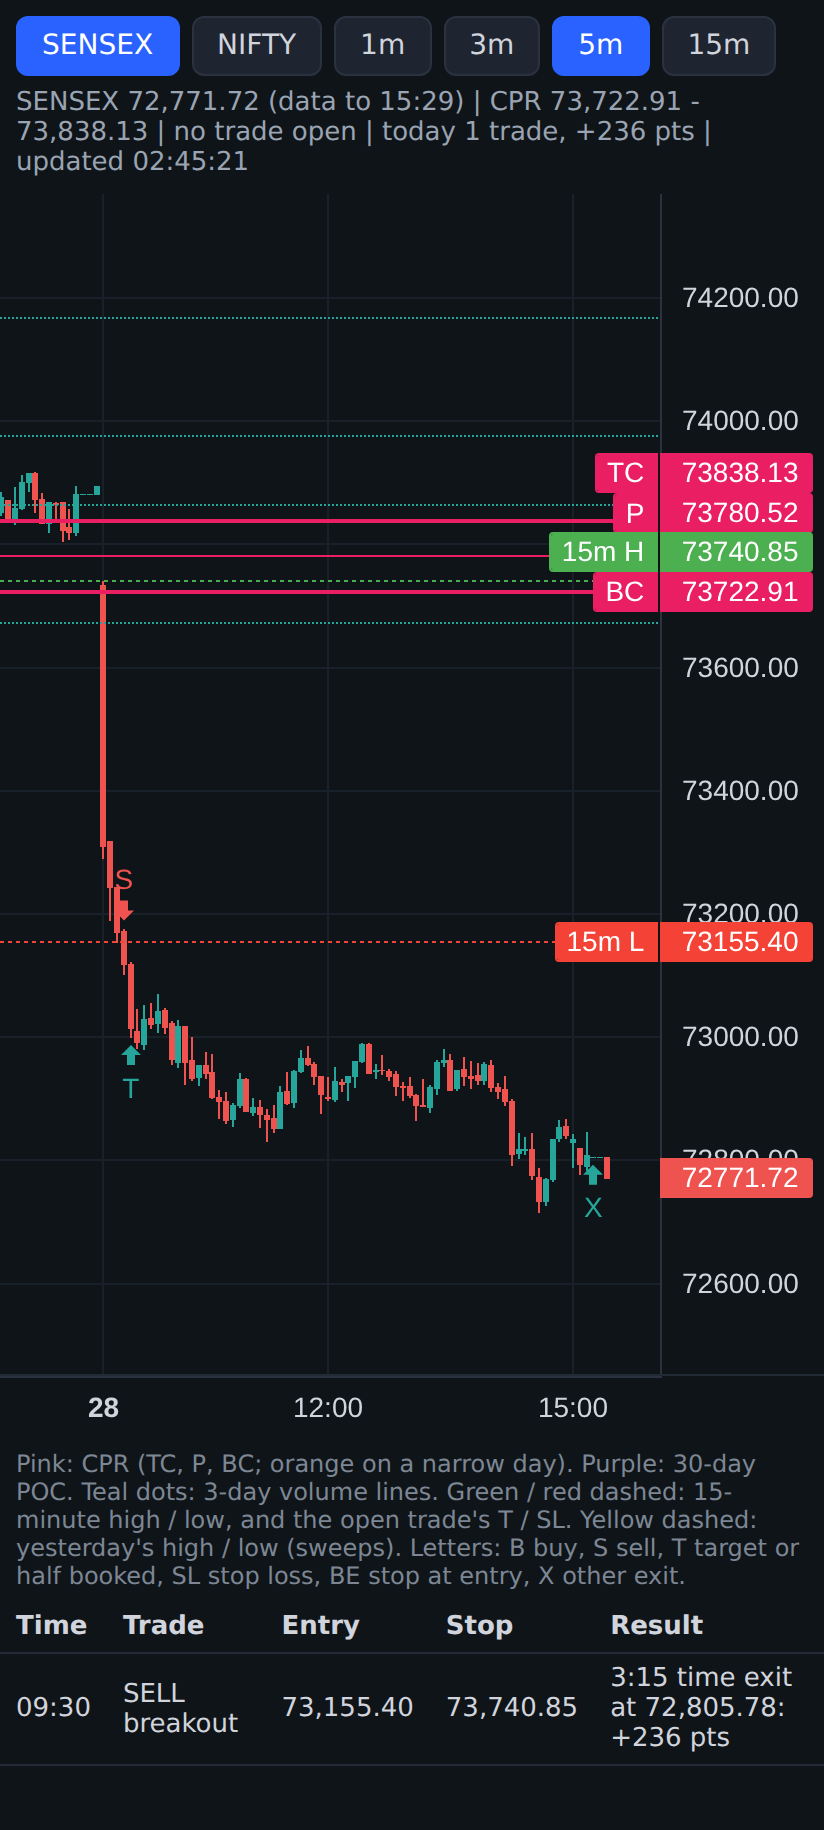
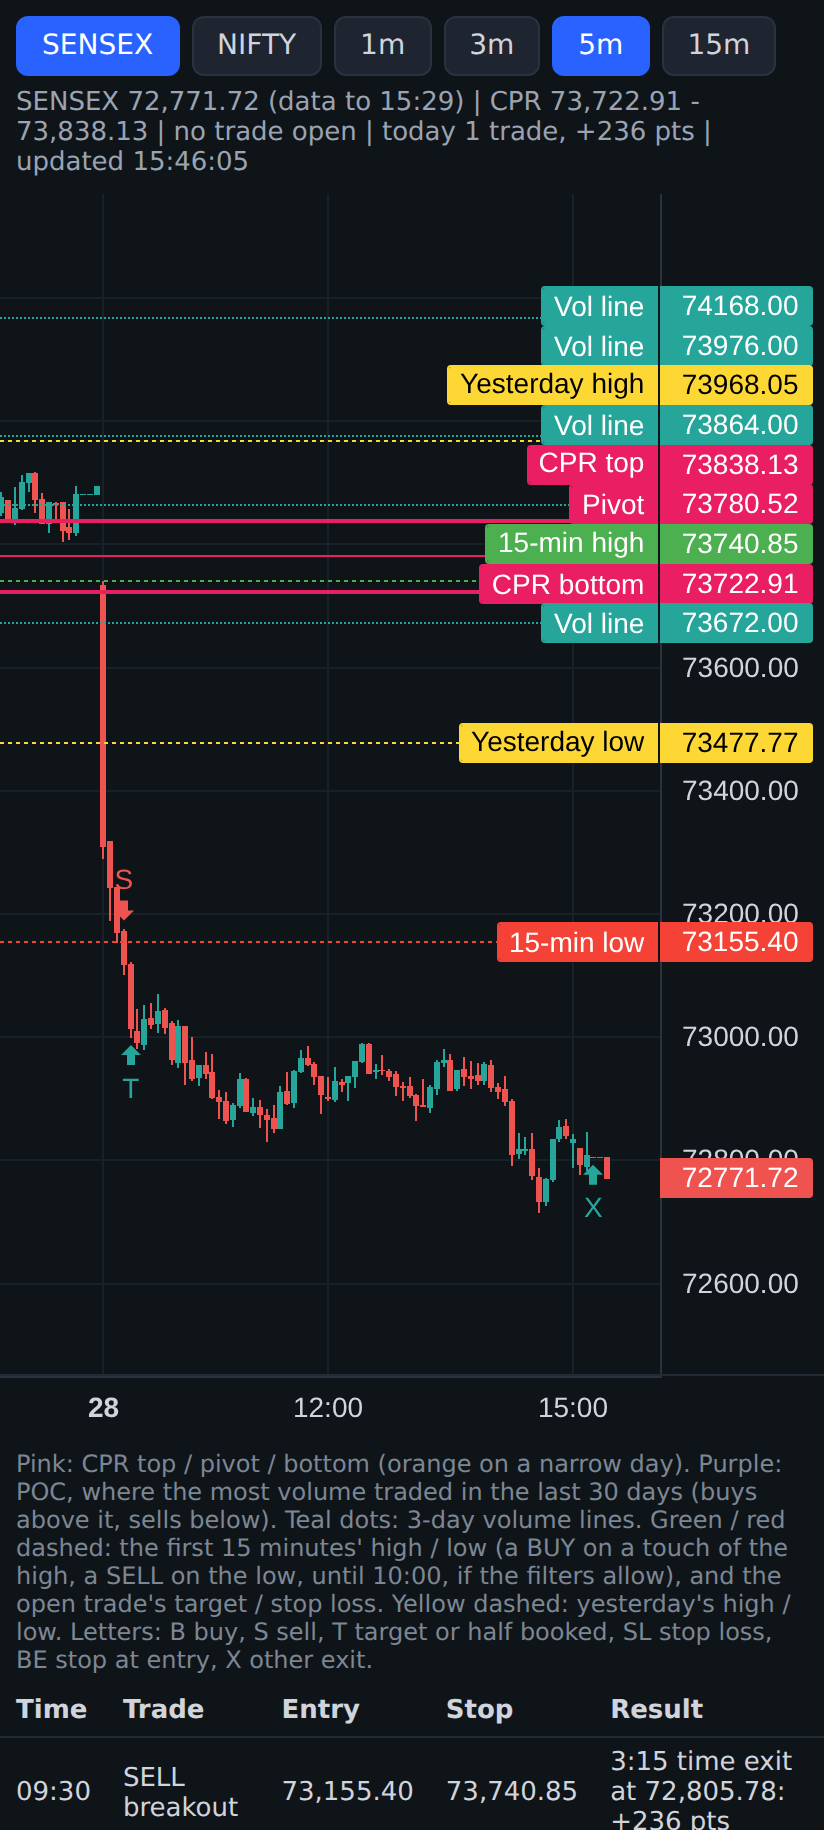
Name every line in words with its price, and draw the next session's levels in advance
TradingView indicator: CPR top / pivot / bottom, POC (most volume, 30 days), 3-day
volume lines, yesterday's high / low (now always shown), stop loss / target, and the
15-minute high / low with today's plan (BUY / SELL on a touch, or none). After the
close: the next session's CPR, yesterday high / low, POC and 3-day volume lines,
named 'Next: ...'. The phone alerts' live chart names its lines the same way.
No trading rule changed.

Claude-Session: https://claude.ai/code/session_01AGVU4tJ1NHm4Zt7sGSBpjS

diff --git a/trading-system/alerts/cprb_alerts.py b/trading-system/alerts/cprb_alerts.py
@@ -971,15 +971,14 @@ def chart_update(n, cx, c_all, ts, got, day):
     """Everything the chart page draws for one index: today's (and yesterday's) 1-minute candles, levels, marks."""
     lv = cx['lv']
     pink = '#ff9800' if cx['narrow'] else '#e91e63'
-    levels = [dict(p=lv['top'], c=pink, t='TC', s=0, w=2), dict(p=lv['p'], c=pink, t='P', s=0, w=1),
-              dict(p=lv['bot'], c=pink, t='BC', s=0, w=2), dict(p=cx['poc'], c='#9c6ade', t='POC', s=0, w=1)]
-    levels += [dict(p=x, c='#26a69a', t='', s=1, w=1) for x in cx['lines']]
-    if SWEEP and cx.get('rules_used') == 'classic':
-        levels += [dict(p=cx['yh'], c='#fdd835', t='yday high', s=2, w=1), dict(p=cx['yl'], c='#fdd835', t='yday low', s=2, w=1)]
+    levels = [dict(p=lv['top'], c=pink, t='CPR top', s=0, w=2), dict(p=lv['p'], c=pink, t='Pivot', s=0, w=1),
+              dict(p=lv['bot'], c=pink, t='CPR bottom', s=0, w=2), dict(p=cx['poc'], c='#9c6ade', t='POC 30 days', s=0, w=1)]
+    levels += [dict(p=x, c='#26a69a', t='Vol line', s=1, w=1) for x in cx['lines']]
+    levels += [dict(p=cx['yh'], c='#fdd835', t='Yesterday high', s=2, w=1), dict(p=cx['yl'], c='#fdd835', t='Yesterday low', s=2, w=1)]
     first = [x for x in c_all if x[0] < RANGE_END]
     if first and got >= RANGE_END - 1:
-        levels += [dict(p=max(x[2] for x in first), c='#4caf50', t='15m H', s=2, w=1),
-                   dict(p=min(x[3] for x in first), c='#f44336', t='15m L', s=2, w=1)]
+        levels += [dict(p=max(x[2] for x in first), c='#4caf50', t='15-min high', s=2, w=1),
+                   dict(p=min(x[3] for x in first), c='#f44336', t='15-min low', s=2, w=1)]
     marks, rows, open_t = [], [], None
     for t in ts:
         if not t['taken']:
@@ -1003,7 +1002,7 @@ def chart_update(n, cx, c_all, ts, got, day):
     if pend and got < 720 and not any(t['src'] == 'PULLBACK' for t in ts):
         levels.append(dict(p=pend['px'], c='#2962ff', t='LIMIT ' + ('BUY' if pend['side'] > 0 else 'SELL'), s=2, w=2))
     if open_t:
-        levels.append(dict(p=open_t['stp'], c='#ef5350', t='SL', s=2, w=1))
+        levels.append(dict(p=open_t['stp'], c='#ef5350', t='Stop loss', s=2, w=1))
         half = any(e['kind'] == 'half' for e in open_t['ev'])
         sd = open_t['side']
         if open_t.get('small'):
@@ -1015,7 +1014,7 @@ def chart_update(n, cx, c_all, ts, got, day):
         else:
             tg = None if half else open_t['e'] + sd * 0.25 * open_t['R']      # after half: trailing, no target
         if tg:
-            levels.append(dict(p=tg, c='#26a69a', t='T', s=2, w=1))
+            levels.append(dict(p=tg, c='#26a69a', t='Target', s=2, w=1))
     done_ = [t for t in ts if t['taken'] and t['exit']]
     net = sum(t['exit']['pnl'] for t in done_)
     last = c_all[-1] if c_all else None
@@ -1039,9 +1038,10 @@ table{width:100%;border-collapse:collapse;font-size:13px}td,th{padding:5px 8px;b
 #key{font-size:12px;color:#7d8794;padding:6px 8px}
 </style></head><body>
 <div id="bar"></div><div id="c"></div>
-<div id="key">Pink: CPR (TC, P, BC; orange on a narrow day). Purple: 30-day POC. Teal dots: 3-day volume lines.
-Green / red dashed: 15-minute high / low, and the open trade's T / SL. Yellow dashed: yesterday's high / low (sweeps). Letters: B buy, S sell, T target or half booked,
-SL stop loss, BE stop at entry, X other exit.</div>
+<div id="key">Pink: CPR top / pivot / bottom (orange on a narrow day). Purple: POC, where the most volume traded in the last 30
+days (buys above it, sells below). Teal dots: 3-day volume lines. Green / red dashed: the first 15 minutes' high / low (a BUY on a
+touch of the high, a SELL on the low, until 10:00, if the filters allow), and the open trade's target / stop loss. Yellow dashed:
+yesterday's high / low. Letters: B buy, S sell, T target or half booked, SL stop loss, BE stop at entry, X other exit.</div>
 <table><thead><tr><th>Time</th><th>Trade</th><th>Entry</th><th>Stop</th><th>Result</th></tr></thead><tbody id="list"></tbody></table>
 <script src="/lwc.js"></script>
 <script>

diff --git a/trading-system/tradingview/README.md b/trading-system/tradingview/README.md
@@ -58,10 +58,15 @@ The rest of this section describes the original rules.
   - Optional **ladder** (off by default): at the next line book half, move the stop to the broken line, ride the
     rest to the line after. 2026: Sensex net +8,819 (instead of +8,102), Nifty +2,193 (instead of +2,274); all of
     the gain came in January-June.
-- Today's lines are named at the right edge: TC / P / BC (the CPR), POC, 15m high / low, vol (3-day volume lines),
-  and SL / T for an open trade. After the close, the **next session's CPR** is drawn dashed to the right with its
-  width, so on a weekend you already see Monday's levels. (A CPR is fixed for its whole session: it comes from the
-  previous day's high, low and close.) The value area lines are off by default.
+- **Every line is named at the right edge, in words, with its price:** "CPR top (TC)", "CPR pivot (P)", "CPR bottom
+  (BC)", "POC ...: most volume, last 30 days (buys above, sells below)", "3-day volume line ...", "Yesterday HIGH /
+  LOW ...", "STOP LOSS / TARGET ..." for an open trade, and the first 15 minutes' range with today's plan: "15-min
+  HIGH 22,628: BUY on a touch until 10:00, if beyond the POC, if the volume agrees" or "(no BUY today)".
+- **The next session is drawn in advance**, dashed, to the right of the last candle after the close (so on a weekend
+  you already see Monday's levels): its CPR with width, yesterday's high / low (today's), the 30-day POC and the
+  3-day volume lines, each named "Next: ...". (A CPR is fixed for its whole session: it comes from the previous
+  day's high, low and close.) The value area lines are off by default. PCR needs option open interest, which
+  TradingView indicators can't read; the tests found it didn't help anyway.
 - **Trades are drawn as position boxes**, like TradingView's Long / Short Position tool: green = entry to target,
   red = entry to stop, from the entry candle until the trade closes, with the entry ("SELL 72,650"), target, stop,
   book-half level and the result written where the prices are. Settings > "How trades are drawn" switches to small

diff --git a/trading-system/alerts/README.md b/trading-system/alerts/README.md
@@ -42,8 +42,8 @@ The chart shows a waiting limit order as a blue "LIMIT" line.
 
 While the program runs, open **http://127.0.0.1:8000** in Chrome on the same phone. It's a live candle chart drawn
 from the same free Upstox prices: NIFTY / SENSEX buttons, 1 / 3 / 5 / 15-minute candles, the CPR as three pink lines
-(orange on a narrow day), the 30-day POC (purple), the 3-day volume lines (teal dots), the 15-minute high / low, yesterday's high / low (yellow, for the sweeps), the
-open trade's stop (SL) and target (T), and every trade as a small letter: B buy, S sell, T target or half booked,
+(orange on a narrow day), the 30-day POC (purple), the 3-day volume lines (teal dots), the 15-minute high / low, yesterday's high / low (yellow), the
+open trade's stop loss and target, each named in words on the price scale, and every trade as a small letter: B buy, S sell, T target or half booked,
 SL stop loss, BE stop at entry, X other exit. Under the chart: today's trades with entry, stop and result. It
 refreshes every 5 seconds; the program fetches new prices every 15 seconds. On a weekend it shows the last session.
 The chart library (TradingView's free open-source Lightweight Charts) is downloaded once and kept next to the
